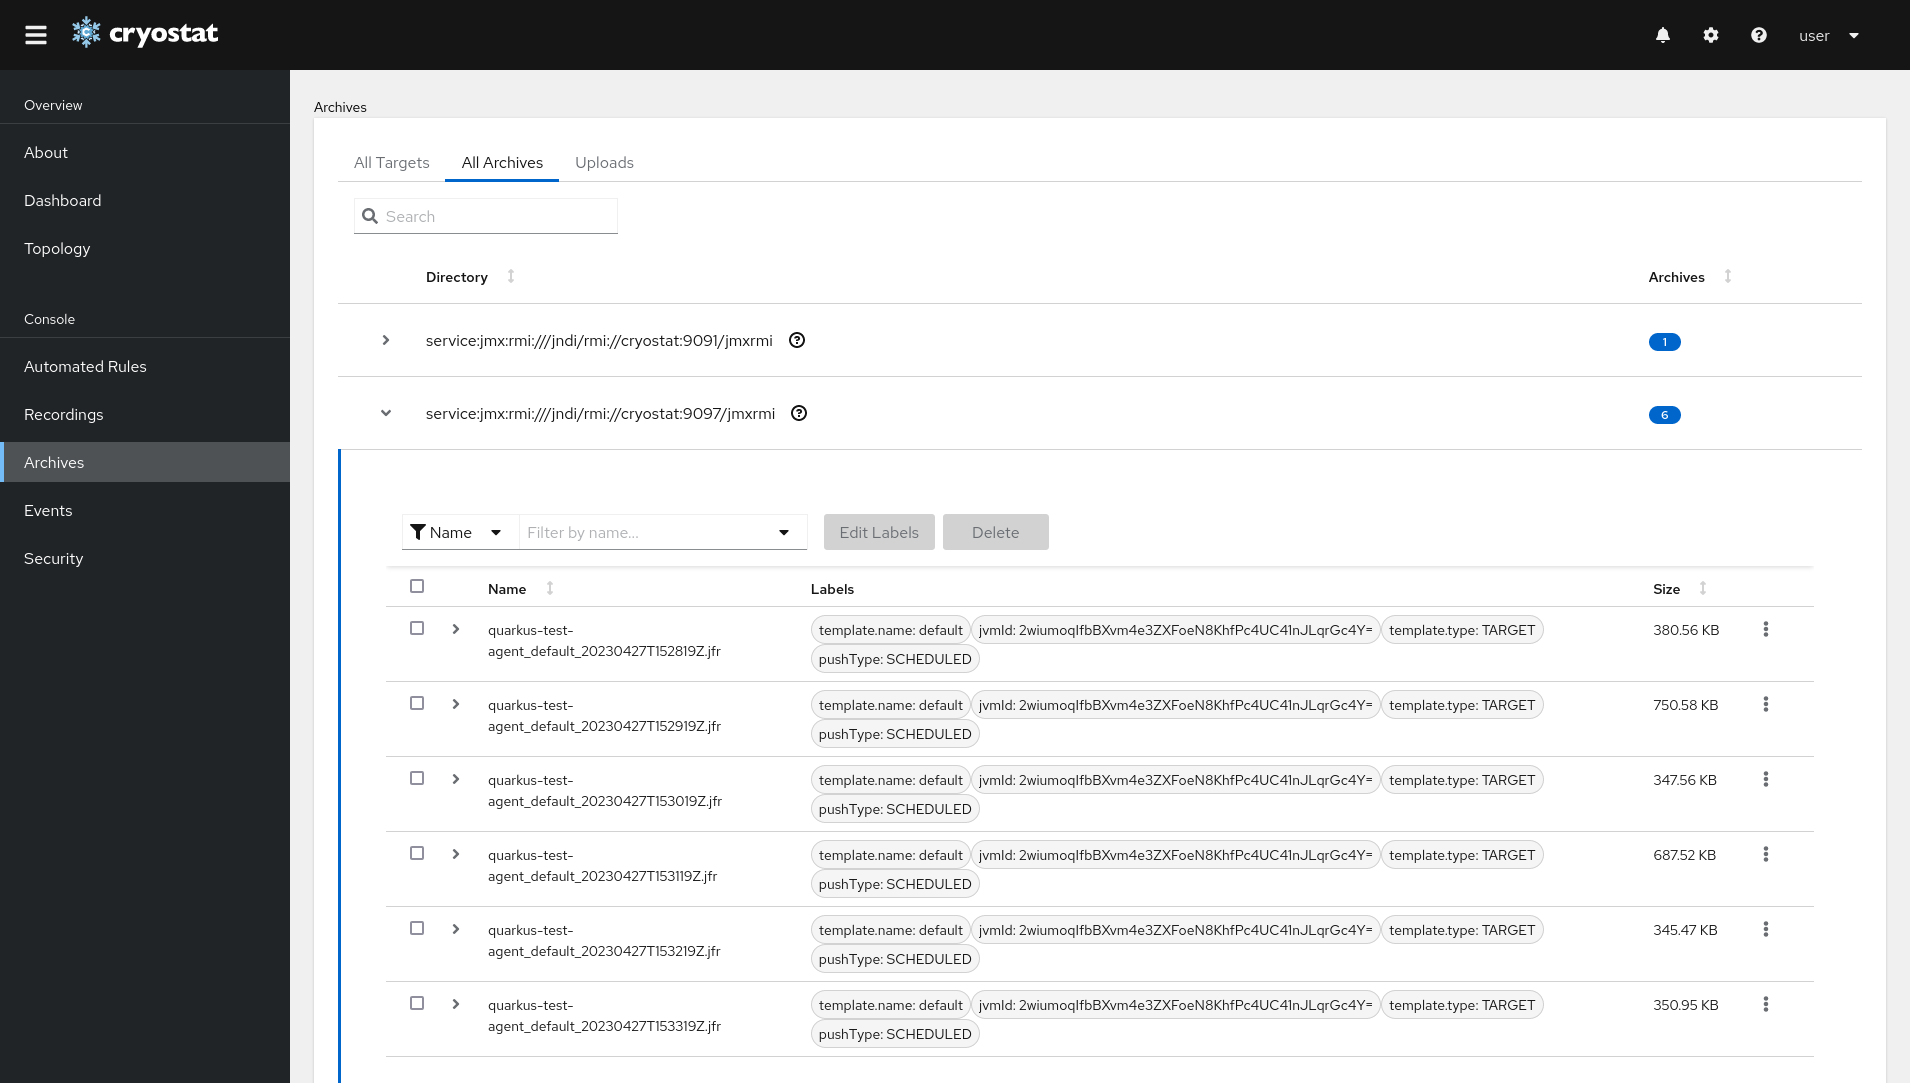
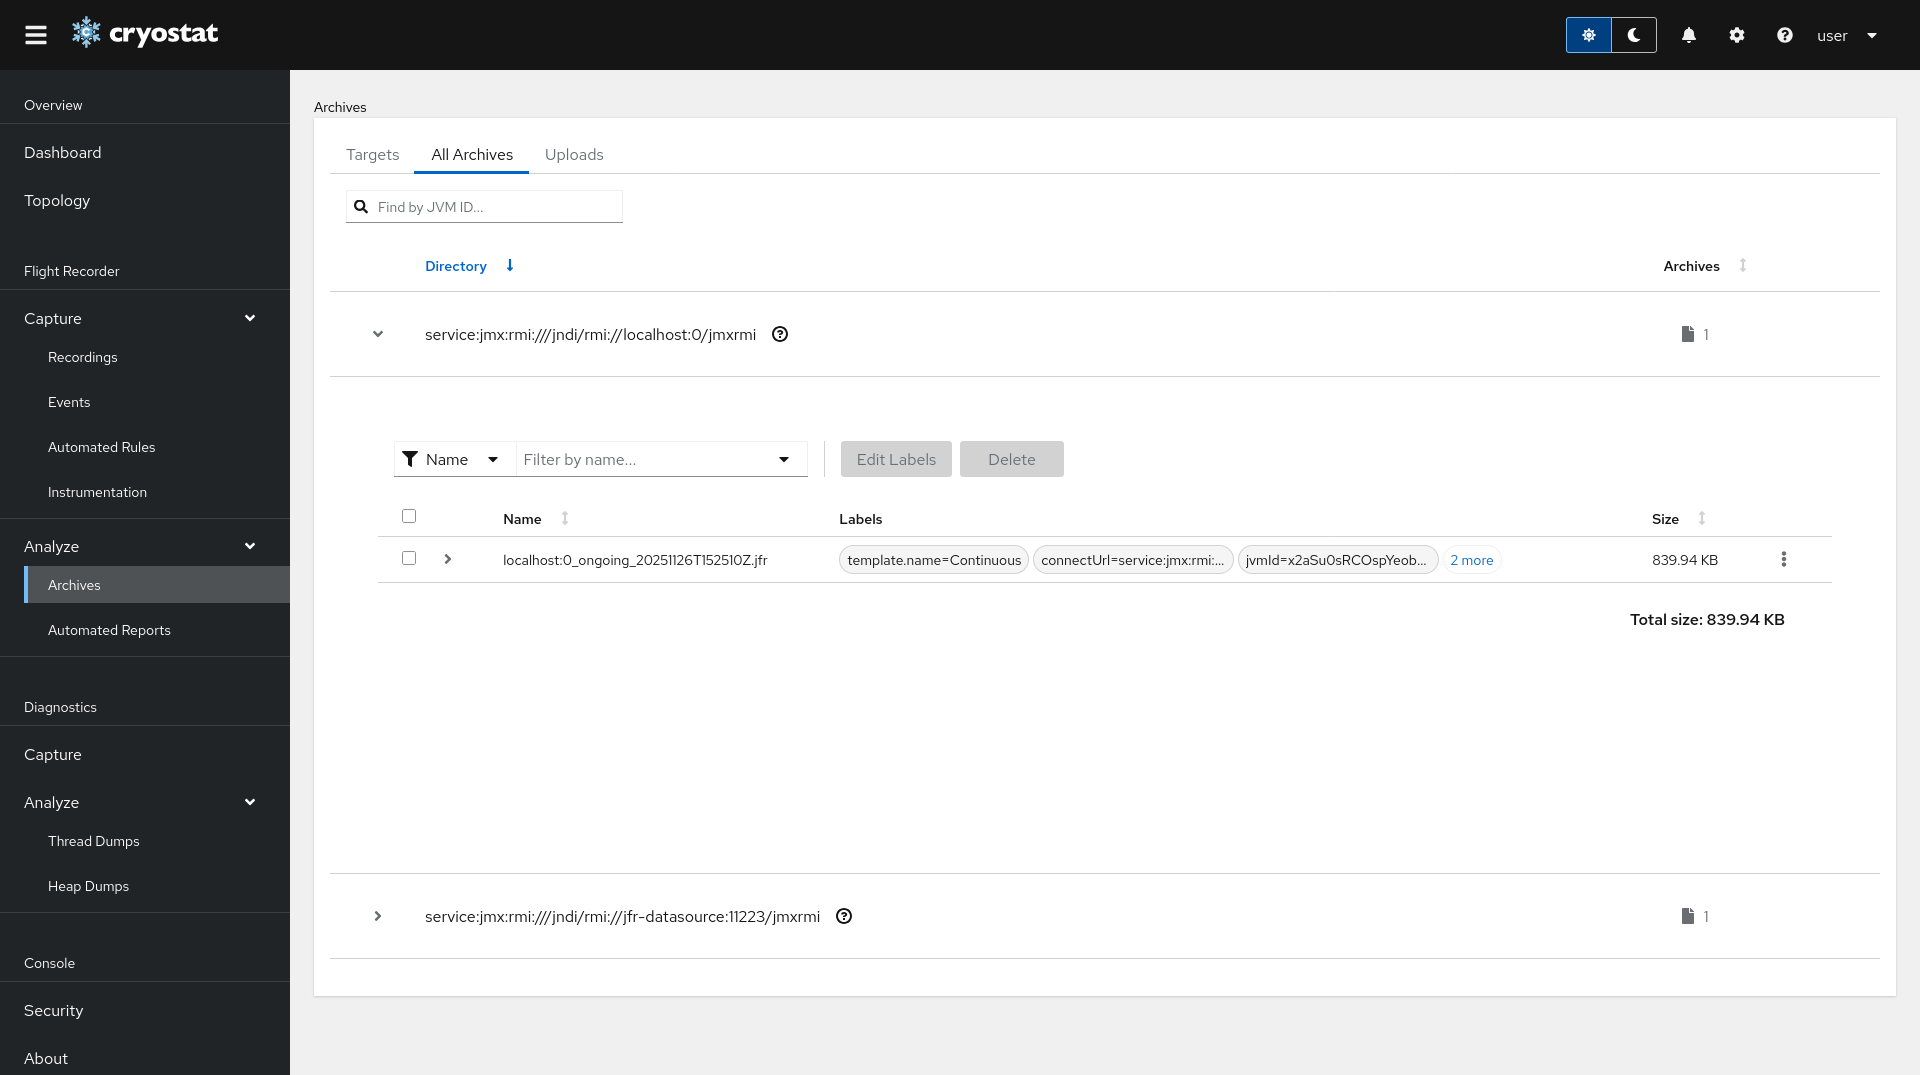
archives

diff --git a/guides/_subsections/view-archived-recordings.md b/guides/_subsections/view-archived-recordings.md
@@ -1,9 +1,9 @@
 ## [Viewing Archived Recordings](#viewing-archived-recordings)
-There are several ways to view <code>Archived Recordings</code>. The first method is to navigate to the <i>Archived Recordings</i> tab. See <a href="#archive-a-recording">Archive a Recording</a>.
+There are several ways to view <code>Archived Recordings</code>. The first method is to navigate to the <i>Flight Recorder/Analyze/Archives</i> view to list <code>Archived Recordings</code> belonging to a single target. See <a href="#archive-a-recording">Archive a Recording</a>.
 
 ### [All-Targets Archived Recordings View](#all-targets-archived-recordings-view)
 
-The second method is to navigate to the <i>All-Targets</i> archived recording view within the <i>Archives</i> tab on <b>Cryostat</b> console sidebar.
+The second method is to view the <i>All-Targets</i> archived recording table within the <i>Flight Recorder/Analyze/Archives</i> view on the <b>Cryostat</b> console sidebar.
 
 The <i>All-Targets</i> view gathers all of <b>Cryostat's</b> discovered <code>target</code> <b>JVM</b> applications into one section for ease of access. Here, we are able to interact with any <code>Archived Recordings</code> that have been saved from a source <code>target</code> by opening a target's nested recordings table.
 
@@ -11,13 +11,19 @@ The <i>All-Targets</i> view gathers all of <b>Cryostat's</b> discovered <code>ta
   <li>
     {% capture navigate-to-all-targets-include-text %}
     <p>
+        If you clear the <code>target</code> selection from the dropdown, the view will
+        change into a nested table format. The outer table will render a list of currently discovered
+        target applications. Expanding each of these table rows will reveal an inner table containing
+        the list of <code>Archived Recordings</code> retrieved from that target.
+    </p>
+    <p>
         The option to automatically hide all <code>targets</code> with zero <code>Archived Recordings</code> is on by default and can be toggled. <code>Targets</code> can also be filtered in the search bar.
     </p>
     {% endcapture %}
     {% include howto_step.html
         summary="Navigate to the <i>All-Targets</i> Archived Recordings view"
         image-name="4.1.0/navigate-to-all-targets.png"
-        caption="Click on the <i>Archives</i> tab on the sidebar, and the first tab should automatically be selected as the <i>All Targets</i> Archives view."
+        caption="Click on the <i>Flight Recorder/Analyze/Archives</i> route on the sidebar, and the first tab should automatically be selected as the <i>Targets</i> Archives view."
         text=navigate-to-all-targets-include-text
     %}
 
@@ -36,7 +42,7 @@ The <i>All-Targets</i> view gathers all of <b>Cryostat's</b> discovered <code>ta
 
 ### [All-Archives Archived Recordings View](#all-archives-archived-recordings-view)
 
-The third method is to navigate to the <i>All-Archives</i> <code>Archived Recording</code> view within the <i>Archives</i> tab on **Cryostat** console sidebar.
+The third method is to navigate to the <i>All-Archives</i> <code>Archived Recording</code> view within the <i>Flight Recorder/Analyze/Archives</i> view on the **Cryostat** console sidebar.
 
 The *All-Archives* view is a view which queries **Cryostat's** internal storage for any created `Archived Recordings` and the directories that contain them. Here, we are able to interact with any `Archived Recordings` that have been saved into storage by opening a nested recordings table within each directory.
 
@@ -52,7 +58,7 @@ This view is used to save any lost `Archived Recordings` in case any `target` **
     {% include howto_step.html
         summary="Navigate to the <i>All-Archives</i> <code>Archived Recordings</code> View"
         image-name="4.1.0/navigate-to-all-archives.png"
-        caption="Click on the <i>Archives</i> tab on the sidebar, and select the second tab titled <i>All Archives</i>."
+        caption="Click on the <i>Flight Recorder/Analyze/Archives</i> view on the sidebar, and select the second tab titled <i>All Archives</i>."
         text=navigate-to-all-archives-include-text
     %}
 

diff --git a/guides/_subsections/archive-a-recording.md b/guides/_subsections/archive-a-recording.md
@@ -36,20 +36,27 @@ any state (`RUNNING`, `STOPPED`, etc.), and may even be a `snapshot`.
   <li>
     <summary>Click the <i>Archive</i> button</summary>
   </li>
+  {% capture archives-view-caption %}
+    Once the <code>Recording</code> has been archived, a new entry will appear in the
+    <code>target</code> <b>JVM's</b> <i>Archived Recordings</i> table.
+  {% endcapture %}
+  {% capture archives-view-text %}
+  <p>
+    All <code>Recordings</code> that were
+    saved from the current <code>target</code> will be listed here in their own table.
+    Switching to a different <code>target</code> from the dropdown will list only the
+    <code>Recordings</code> archived from that source <code>target</code>. The name of the <code>Archived
+    Recording</code> reflects the address of the <code>target</code> application, the original
+    name of the <code>Active Recording</code> that it was retrieved from, and includes a
+    <code>timestamp</code> indicating when the <code>Archived Recording</code> was created.
+  </p>
+  {% endcapture %}
   <li>
     {% include howto_step.html
       summary="Navigate to the <i>Flight Recorder/Analyze/Archives</i> view"
       image-name="4.1.0/archive-a-recording-2.png"
-      caption="
-        Once the <code>Recording</code> has been archived, a new entry will appear in the
-        <code>target</code> <b>JVM's</b> <i>Archived Recordings</i> table. All <code>Recordings</code> that were
-        saved from the current <code>target</code> will be listed here in their own table.
-        Switching to a different <code>target</code> from the dropdown will list only the
-        <code>Recordings</code> archived from that source <code>target</code>. The name of the <code>Archived
-        Recording</code> reflects the address of the <code>target</code> application, the original
-        name of the <code>Active Recording</code> that it was retrieved from, and includes a
-        <code>timestamp</code> indicating when the <code>Archived Recording</code> was created.
-      "
+      caption=archives-view-caption
+      text=archives-view-text
     %}
   </li>
 </ol>
